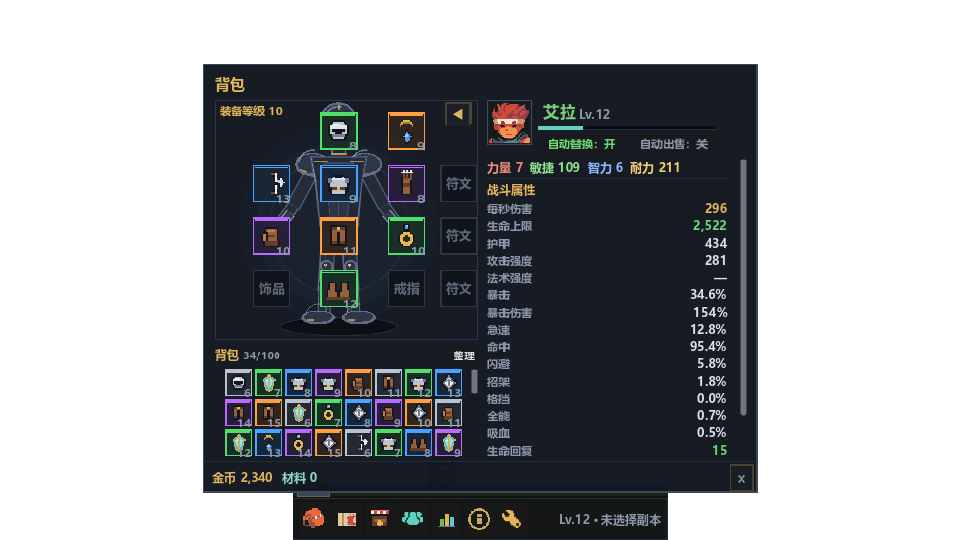
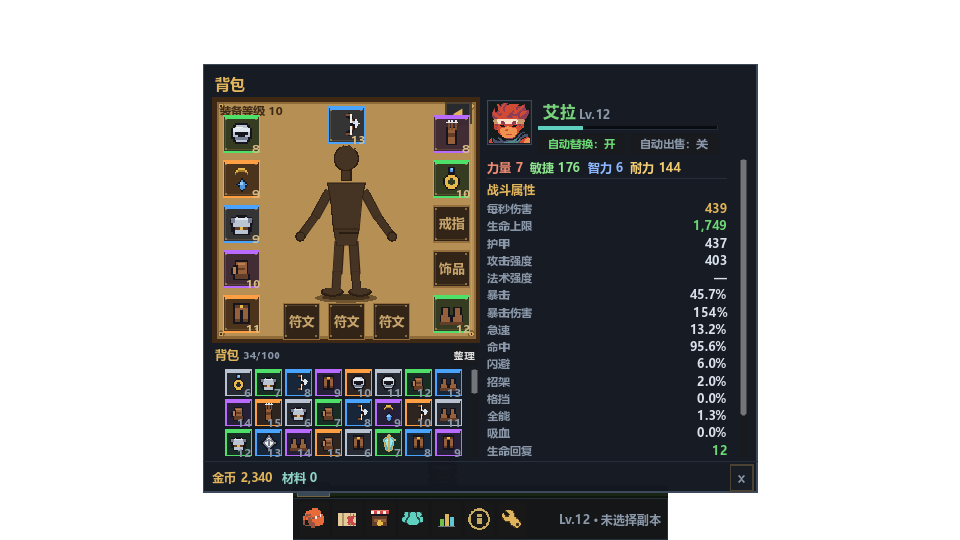
Restyle equipment view as parchment paper doll

diff --git a/README.md b/README.md
@@ -2,7 +2,7 @@
 
 桌面宠物式像素挂机小游戏。没有技能、没有手动战斗，只有角色天赋、装备词条和一路变强的数字。
 
-- 版本：0.45.0
+- 版本：0.46.0
 - 引擎：Godot 4.7.2（GL Compatibility）
 - 逻辑分辨率：1280 × 720
 - 实际窗口：960 × 540，**无边框、透明、可拖动**
@@ -144,9 +144,11 @@
 
 ## 背包（B）
 
-![背包](shots/v450_bag.png)
+![背包](shots/v460_bag.png)
 
-- 装备区背后的人形增加肩甲、胸甲、护腕、护膝、靴子、腰带和头盔细节，整体站姿保持不变
+- 装备展示区改为羊皮纸底、暗色人形剪影和暗棕金边槽位
+- 槽位按参考图布局：顶部主手、左右各 5 格、底部 3 格符文；中心人形缩小以避开槽位
+- 装备区背后的人形保持原站姿，不再显示盔甲细节，改为剪影
 
 ![装备提示](shots/v300_tooltip.png)
 
@@ -157,10 +159,8 @@
   - 戒指、符文可在对应栏位间拖动交换；不兼容栏位会拒绝
   - 左键点击装备/卸下、右键菜单仍保留
 - 右下角关闭 ×；拖动边缘移动面板
-- 装备区改为等距四列：每列垂直间距统一为 70px；头盔下移、鞋子在上移后的位置
-- 项链移到右侧饰品列，中心列由 5 格减为 4 格；背包高度从 600 缩到 550，装备框同步缩短
 - 右侧属性区宽度由 400 缩到 340；除角色名、等级外整体字号 +1
-- 装备区行距 50px 槽位，头/胸/手/腿/脚对应人形
+- 槽位保持 50px：顶部主手，左侧头/项链/胸/手/腿，右侧副手/双戒/饰品/鞋，底部三枚符文
 - 背包 8 列，滚轮查看；100 格
 - 装备区支持 `◀/▶` 收起/展开，收起时左边位置保持不变
 - 初始装备只有新手四件；之前的测试武器已移除
